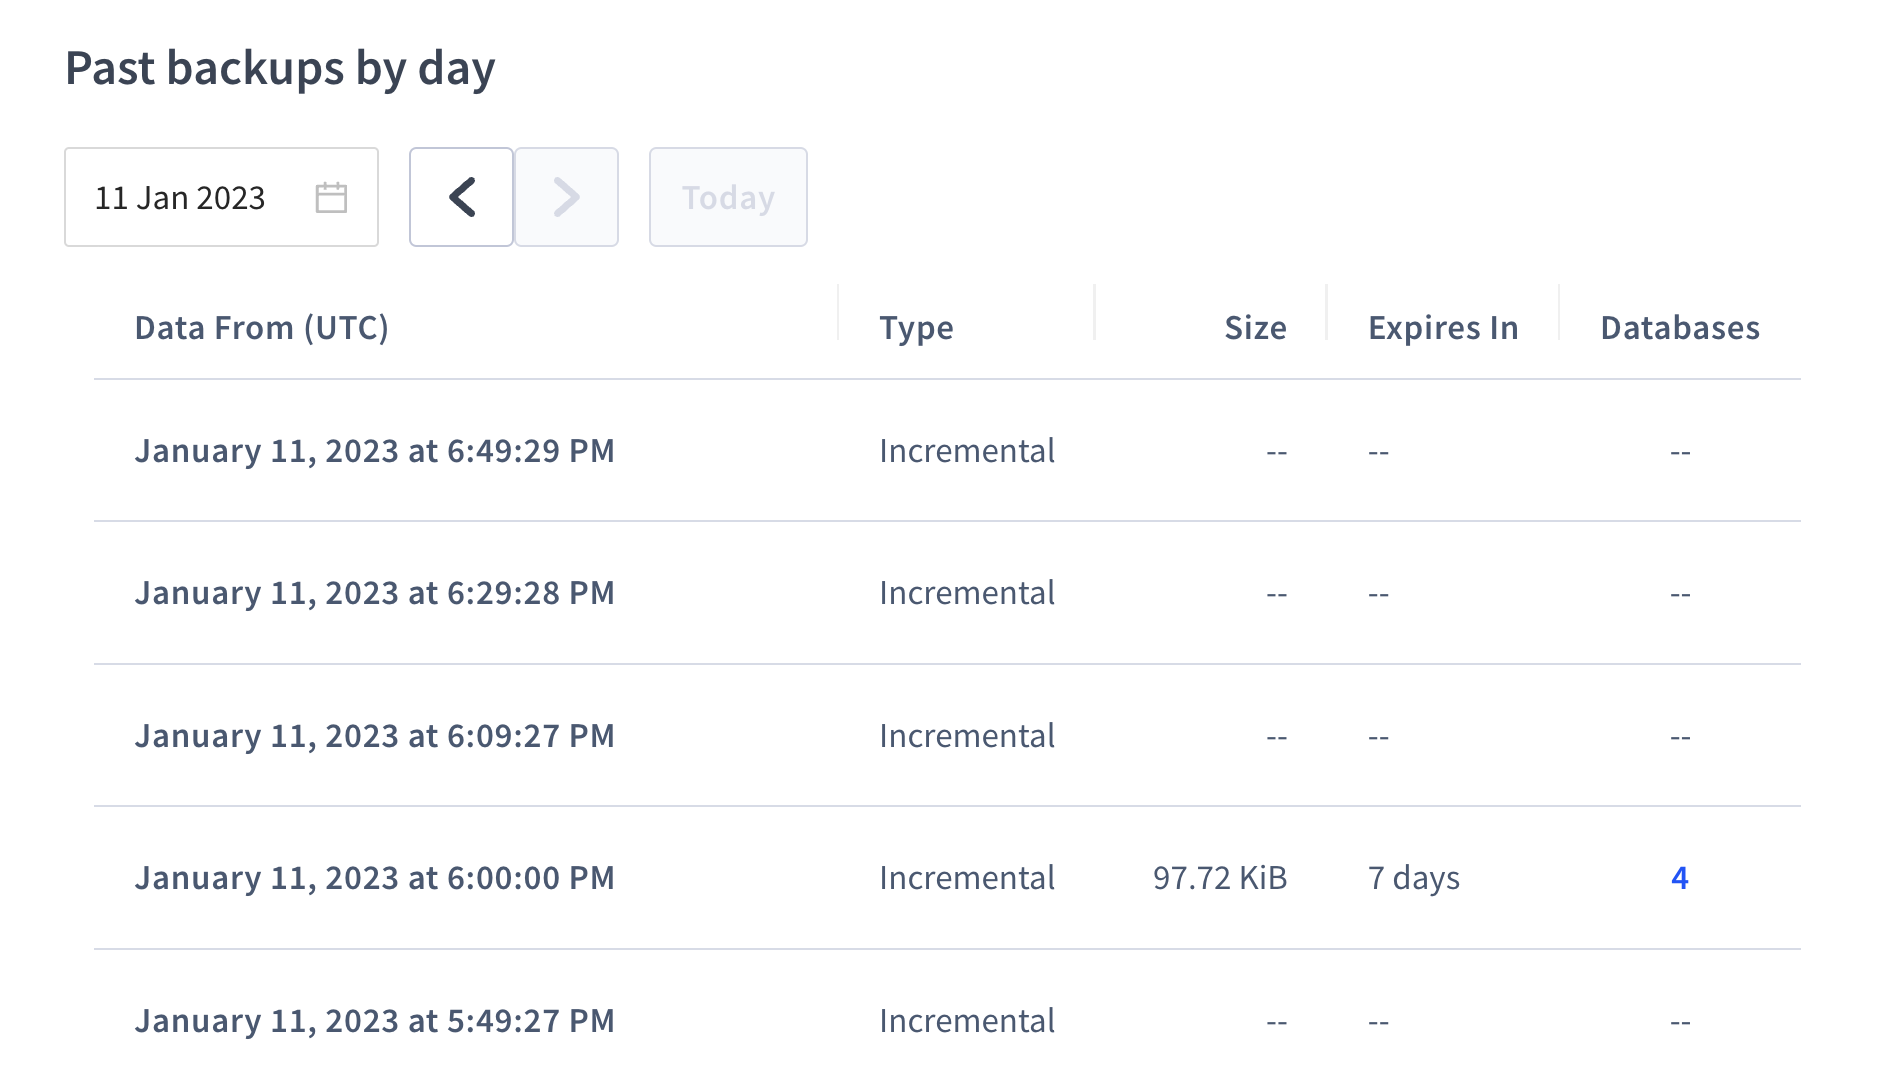
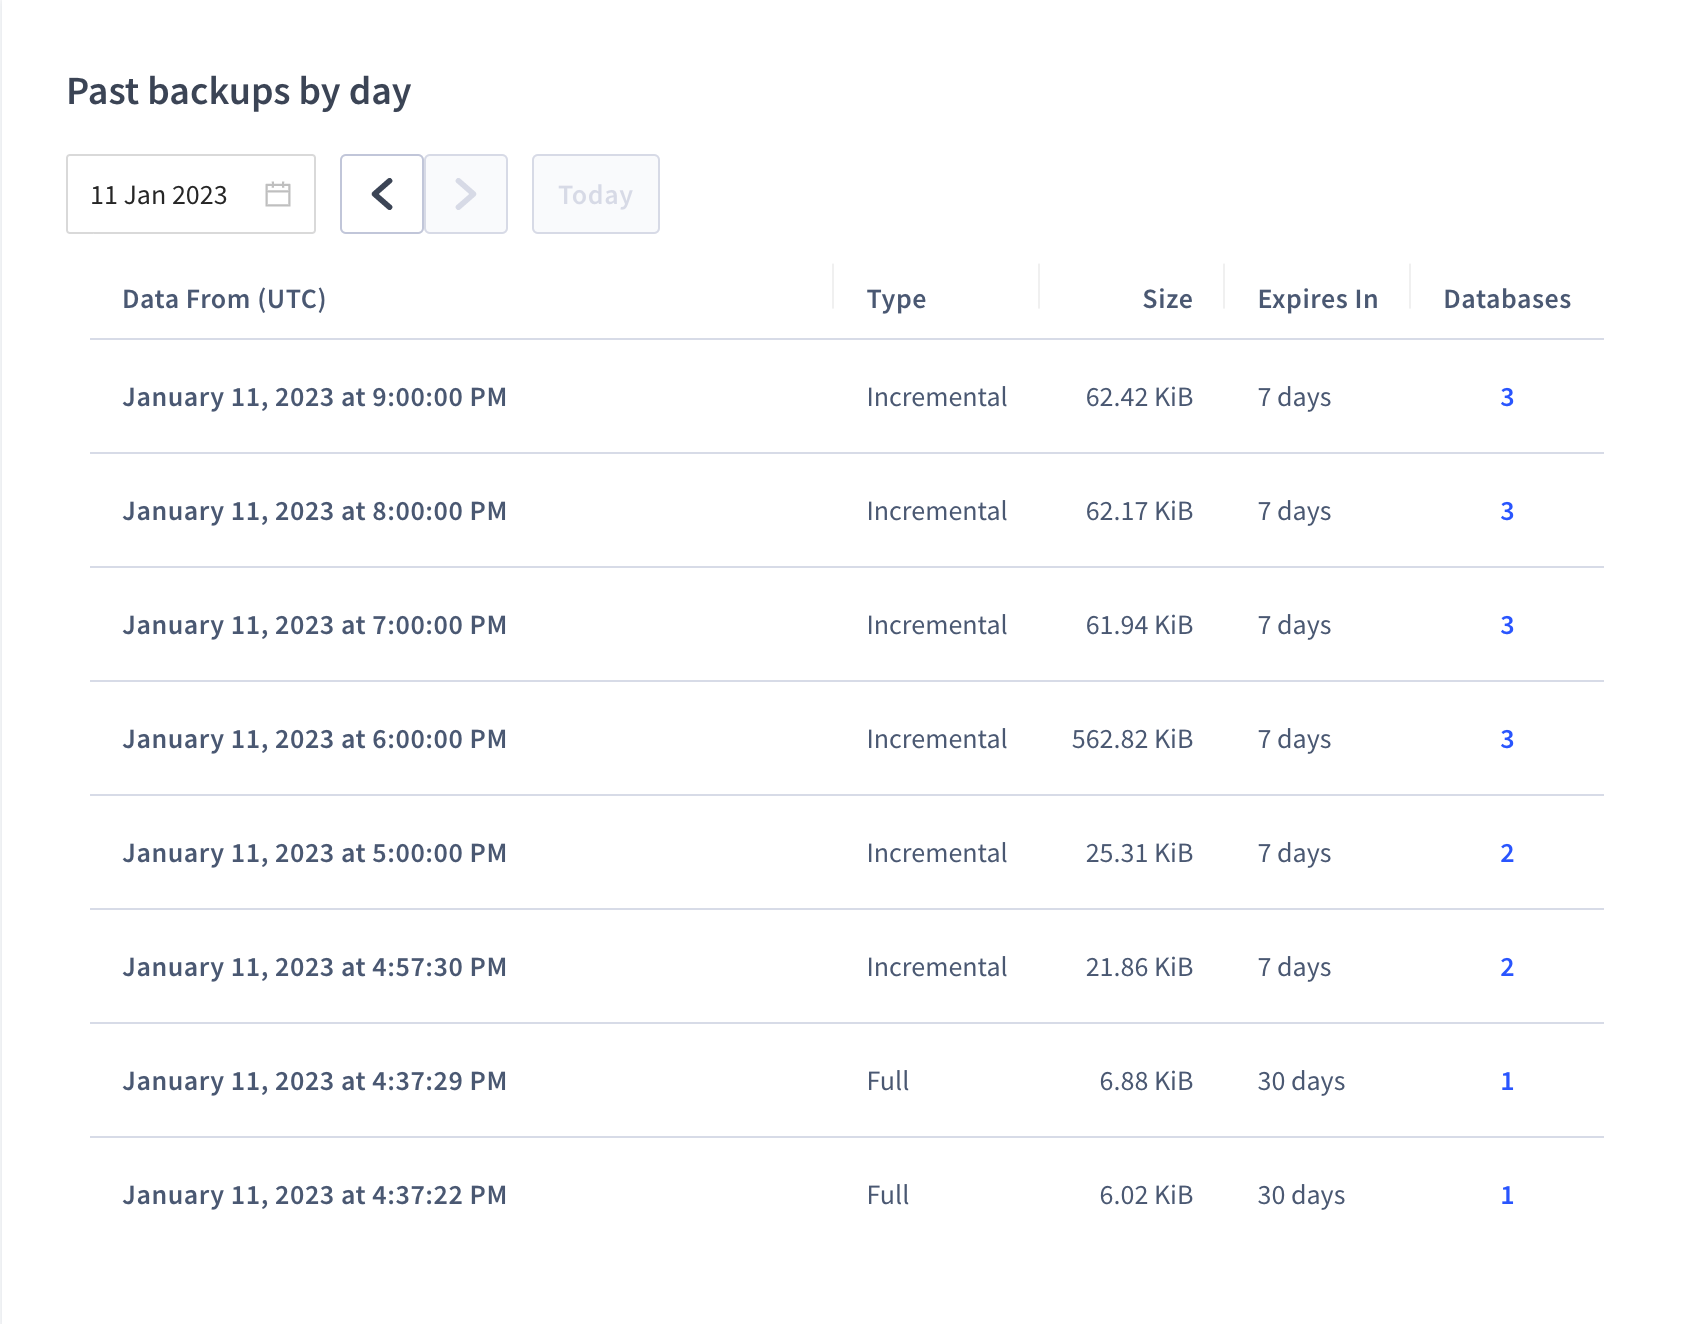
incorporated feedback and changed image

diff --git a/cockroachcloud/use-managed-service-backups.md b/cockroachcloud/use-managed-service-backups.md
@@ -36,7 +36,7 @@ In the meantime, you can [back up and restore data manually](take-and-restore-cu
 
 ## Backups page
 
-A list of your full cluster backups displays on your cluster's **Backups** page.
+A list of your full and incremental cluster backups displays on your cluster's **Backups** page.
 
 For each backup, the following details display:
 
